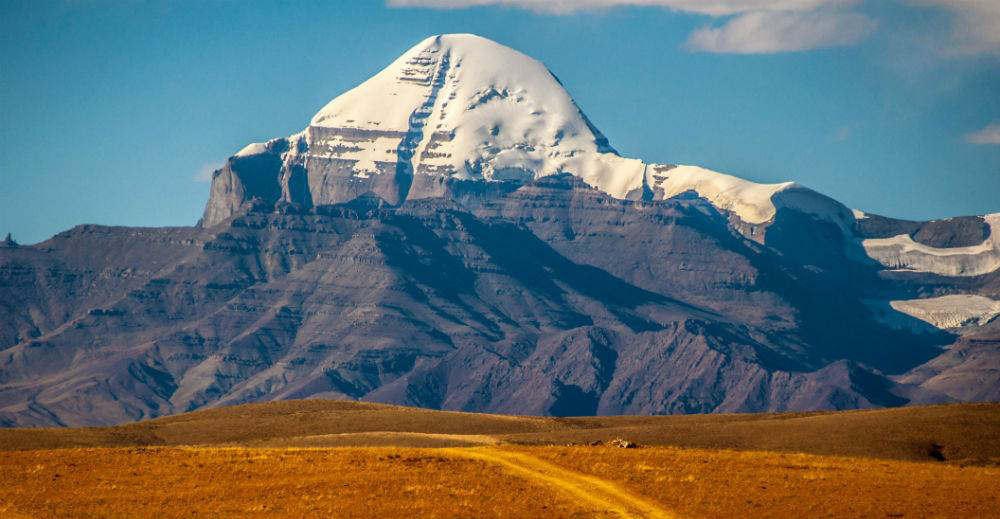
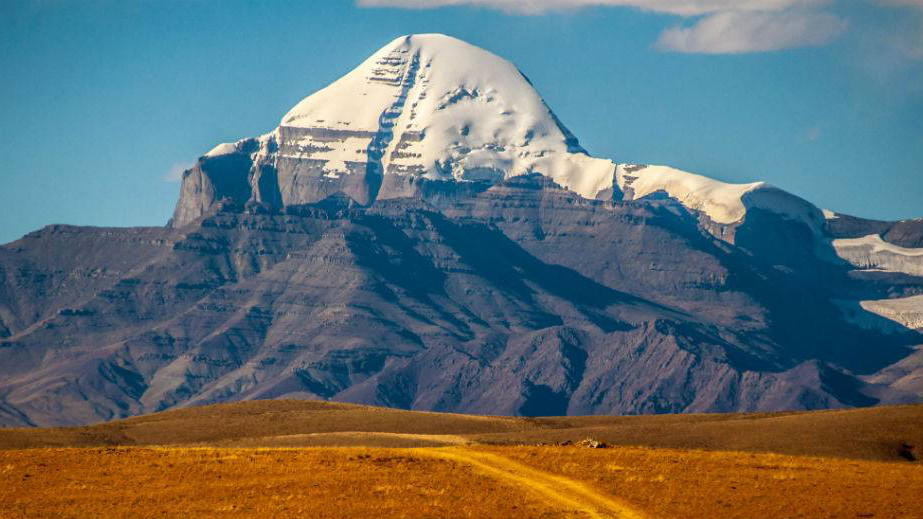
Main page rendering optimization

diff --git a/content/yatra/kailash-manasarovar.md b/content/yatra/kailash-manasarovar.md
@@ -2,6 +2,7 @@
 title = "kailash manasarovar"
 date = "2016-11-18T19:23:41+05:30"
 image = "/img/kailash-manasarovar/banner.jpg"
+thumbnail = "/img/kailash-manasarovar/banner_tn.jpg"
 summary = "15 Day pilgrimage of a lifetime"
 price = ""
 priceunit = ""

diff --git a/content/yatra/kasi.md b/content/yatra/kasi.md
@@ -2,6 +2,7 @@
 date = "2016-11-22T09:37:14+05:30"
 title = "kasi"
 image = "/img/kasi/banner.jpg"
+thumbnail = "/img/kasi/banner_tn.jpg"
 summary = "6 days / 6 nights trip to Allahabad, Ayodhya, Kasi, Gaya"
 price = "13,500"
 priceunit = "Rs"

diff --git a/content/yatra/mantralayam.md b/content/yatra/mantralayam.md
@@ -4,6 +4,7 @@ date = "2016-12-04T21:32:16+05:30"
 title = "mantralayam"
 priceunit = ""
 image = "/img/mantralayam/banner.jpg"
+thumbnail = "/img/mantralayam/banner_tn.jpg"
 summary = ""
 daterange = ""
 categories = ["pilgrimage"]

diff --git a/content/yatra/ahobilam.md b/content/yatra/ahobilam.md
@@ -7,6 +7,7 @@ tags = [""]
 daterange = ""
 title = "ahobilam"
 image = "/img/ahobilam/banner.jpg"
+thumbnail = "/img/ahobilam/banner_tn.jpg"
 price = ""
 priceunit = "Rs"
 

diff --git a/content/yatra/chettinad.md b/content/yatra/chettinad.md
@@ -1,5 +1,6 @@
 +++
 image = "/img/chettinad/banner.jpg"
+thumbnail = "/img/chettinad/banner_tn.jpg"
 summary = ""
 title = "chettinad"
 categories = ["heritage"]
